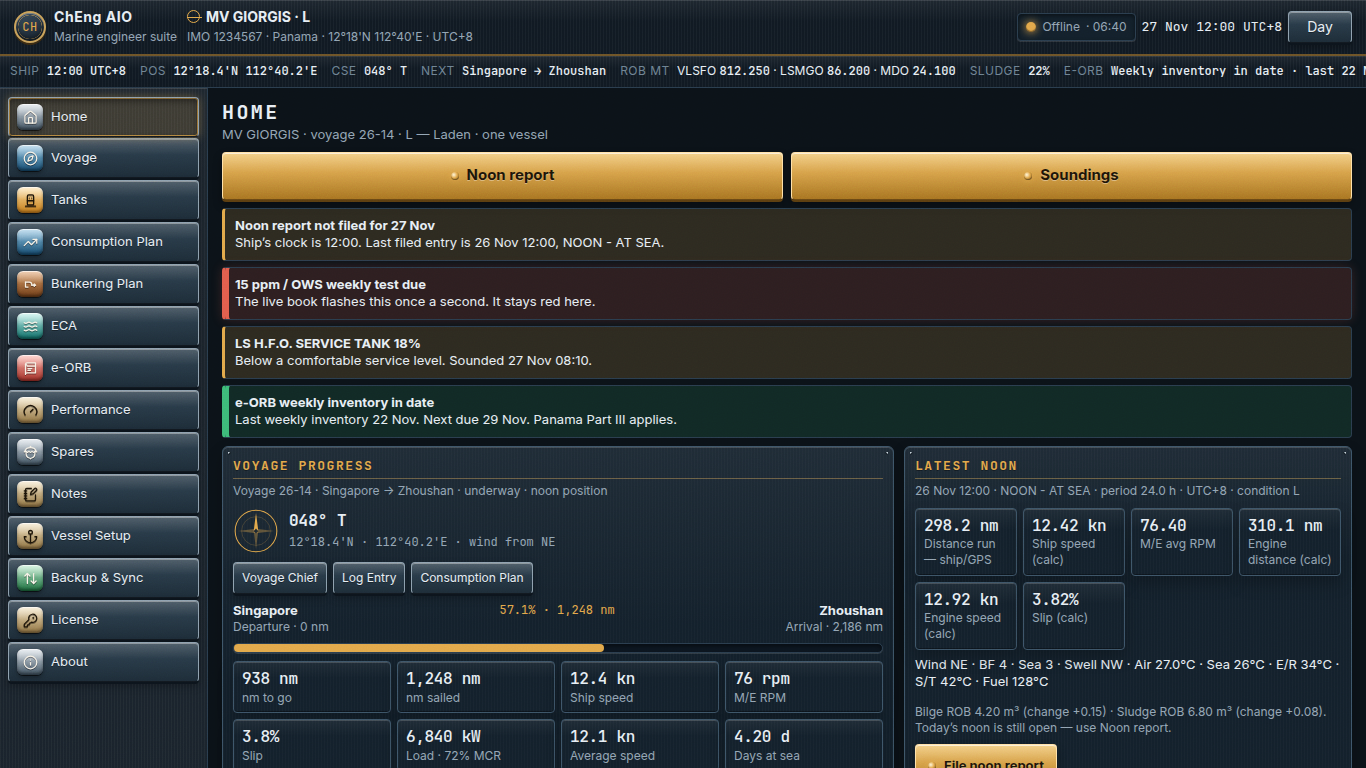
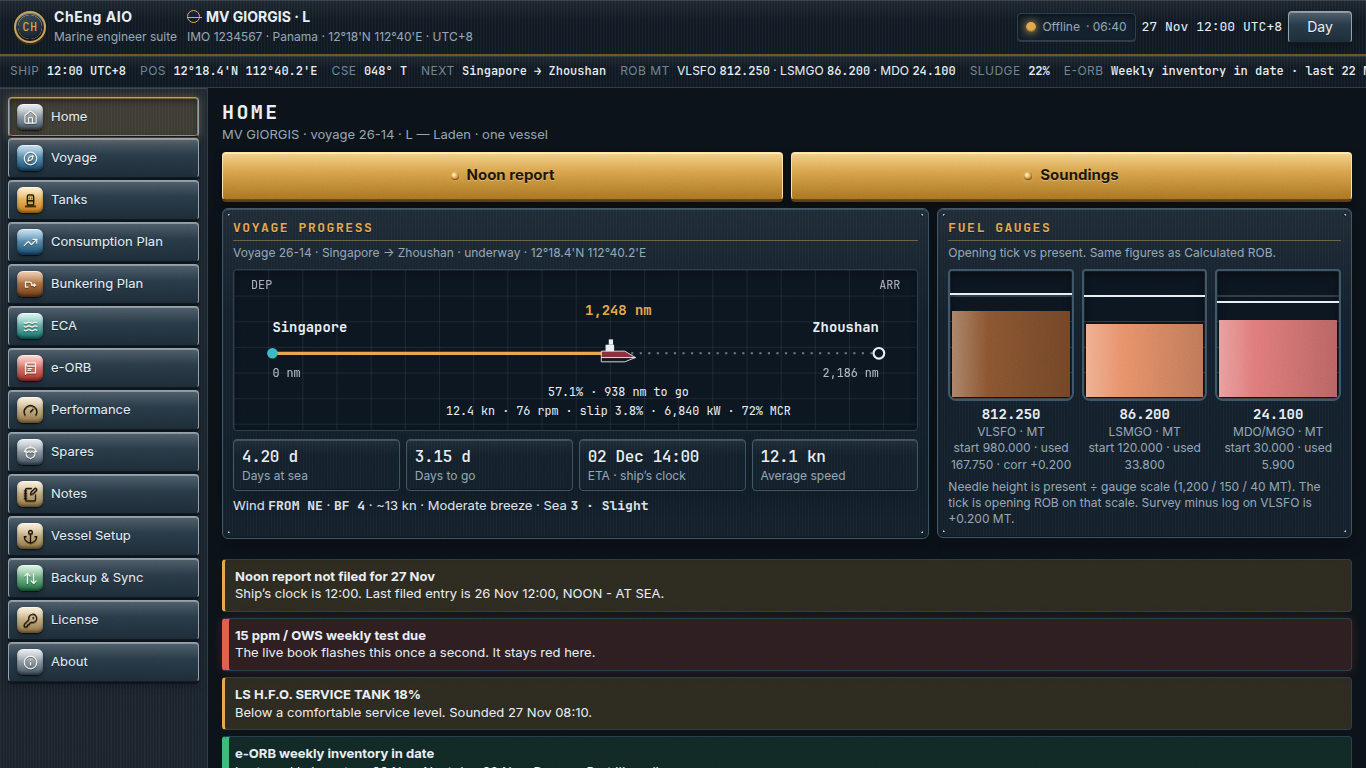
Restore the voyage passage chart and vertical fuel gauges on the home mockup.

diff --git a/docs/redesign-mockups/dashboard.html b/docs/redesign-mockups/dashboard.html
@@ -33,6 +33,72 @@
       <a class="btn primary" href="soundings.html">Soundings</a>
     </div>
 
+    <div class="hero">
+      <section class="band passage-hero" id="passage">
+        <h2>Voyage progress</h2>
+        <p class="sub">Voyage 26-14 · Singapore → Zhoushan · underway · 12°18.4'N 112°40.2'E</p>
+        <svg class="passage-svg" viewBox="0 0 640 150" role="img" aria-label="Passage from Singapore to Zhoushan, 1,248 nautical miles run of 2,186">
+          <defs>
+            <pattern id="chartgrid" width="32" height="24" patternUnits="userSpaceOnUse">
+              <path d="M32 0H0V24" fill="none" stroke="currentColor" stroke-width="0.4" opacity="0.35"/>
+            </pattern>
+          </defs>
+          <rect x="0" y="0" width="640" height="150" fill="url(#chartgrid)"/>
+          <text x="16" y="18" fill="currentColor" font-size="11" opacity="0.7">DEP</text>
+          <text x="624" y="18" text-anchor="end" fill="currentColor" font-size="11" opacity="0.7">ARR</text>
+          <line x1="36" y1="78" x2="604" y2="78" stroke="currentColor" stroke-width="2" stroke-dasharray="2 6" opacity="0.45"/>
+          <line x1="36" y1="78" x2="360" y2="78" stroke="#e2a84a" stroke-width="3" stroke-linecap="round"/>
+          <circle cx="36" cy="78" r="5" fill="#3cb6c6"/>
+          <circle cx="604" cy="78" r="5" fill="none" stroke="currentColor" stroke-width="2"/>
+          <g transform="translate(360 78)">
+            <path d="M-16 4 L-16 -2 L6 -2 L16 4 Z" fill="#8a3038" stroke="currentColor" stroke-width="0.8"/>
+            <path d="M-16 8 L-16 4 L16 4 L6 8 Z" fill="#14181c" stroke="currentColor" stroke-width="0.8"/>
+            <rect x="-12" y="-8" width="8" height="6" fill="currentColor"/>
+            <rect x="-9" y="-13" width="4" height="5" fill="currentColor"/>
+          </g>
+          <text x="36" y="58" fill="currentColor" font-size="13" font-weight="650">Singapore</text>
+          <text x="36" y="100" fill="currentColor" font-size="11" opacity="0.75">0 nm</text>
+          <text x="604" y="58" text-anchor="end" fill="currentColor" font-size="13" font-weight="650">Zhoushan</text>
+          <text x="604" y="100" text-anchor="end" fill="currentColor" font-size="11" opacity="0.75">2,186 nm</text>
+          <text x="360" y="42" text-anchor="middle" fill="#e2a84a" font-size="13" font-weight="650">1,248 nm</text>
+          <text x="360" y="118" text-anchor="middle" fill="currentColor" font-size="11">57.1% · 938 nm to go</text>
+          <text x="360" y="136" text-anchor="middle" fill="currentColor" font-size="11">12.4 kn · 76 rpm · slip 3.8% · 6,840 kW · 72% MCR</text>
+        </svg>
+        <div class="stat-row passage-strip">
+          <div class="stat"><b>4.20 d</b><span>Days at sea</span></div>
+          <div class="stat"><b>3.15 d</b><span>Days to go</span></div>
+          <div class="stat"><b>02 Dec 14:00</b><span>ETA · ship’s clock</span></div>
+          <div class="stat"><b>12.1 kn</b><span>Average speed</span></div>
+        </div>
+        <p class="wx">Wind <b>FROM NE</b> · <b>BF 4</b> · ~13 kn · Moderate breeze · Sea <b>3 · Slight</b></p>
+      </section>
+      <section class="band" id="fuel-gauges">
+        <h2>Fuel gauges</h2>
+        <p class="sub">Opening tick vs present. Same figures as Calculated ROB.</p>
+        <div class="vtanks">
+          <div class="vtank vlsfo">
+            <div class="vtank-glass" style="--fill:67.7%; --open:81.7%"><i></i><s></s></div>
+            <b>812.250</b>
+            <span>VLSFO · MT</span>
+            <em>start 980.000 · used 167.750 · corr +0.200</em>
+          </div>
+          <div class="vtank lsmgo">
+            <div class="vtank-glass" style="--fill:57.5%; --open:80%"><i></i><s></s></div>
+            <b>86.200</b>
+            <span>LSMGO · MT</span>
+            <em>start 120.000 · used 33.800</em>
+          </div>
+          <div class="vtank mdo">
+            <div class="vtank-glass" style="--fill:60.3%; --open:75%"><i></i><s></s></div>
+            <b>24.100</b>
+            <span>MDO/MGO · MT</span>
+            <em>start 30.000 · used 5.900</em>
+          </div>
+        </div>
+        <p class="hint">Needle height is present ÷ gauge scale (1,200 / 150 / 40 MT). The tick is opening ROB on that scale. Survey minus log on VLSFO is +0.200 MT.</p>
+      </section>
+    </div>
+
     <div class="alerts" id="alerts">
       <div class="alert"><b>Noon report not filed for 27 Nov</b>Ship’s clock is 12:00. Last filed entry is 26 Nov 12:00, NOON - AT SEA.</div>
       <div class="alert bad"><b>15 ppm / OWS weekly test due</b>The live book flashes this once a second. It stays red here.</div>
@@ -41,34 +107,14 @@
     </div>
 
     <div class="board-top">
-      <section class="band" id="passage">
-        <h2>Voyage progress</h2>
-        <p class="sub">Voyage 26-14 · Singapore → Zhoushan · underway · noon position</p>
-        <div class="bearing">
-          <svg class="rose" viewBox="0 0 64 64" aria-hidden="true">
-            <circle cx="32" cy="32" r="29" fill="none" stroke="currentColor" stroke-width="1.4"/>
-            <circle cx="32" cy="32" r="20" fill="none" stroke="currentColor" stroke-width="0.6" opacity="0.45"/>
-            <path d="M32 7 L35.2 32 L32 28.5 L28.8 32 Z" fill="currentColor"/>
-            <path d="M32 57 L28.8 32 L32 35.5 L35.2 32 Z" fill="currentColor" opacity="0.35"/>
-            <path d="M7 32 L32 28.8 L28.5 32 L32 35.2 Z" fill="currentColor" opacity="0.35"/>
-            <path d="M57 32 L32 35.2 L35.5 32 L32 28.8 Z" fill="currentColor" opacity="0.35"/>
-          </svg>
-          <div>
-            <b>048° T</b>
-            <span>12°18.4'N · 112°40.2'E · wind from NE</span>
-          </div>
-        </div>
+      <section class="band" id="passage-detail">
+        <h2>Voyage figures</h2>
+        <p class="sub">The same readings as the passage chart, listed for the log. Beaufort samples stay here.</p>
         <div class="btn-row">
           <a class="btn small" href="dashboard.html#passage">Voyage Chief</a>
           <a class="btn small" href="noon.html">Log Entry</a>
           <a class="btn small" href="soon.html?id=bunkerplan">Consumption Plan</a>
         </div>
-        <div class="passage-ports" style="margin-top:8px">
-          <div><b>Singapore</b><span>Departure · 0 nm</span></div>
-          <div class="passage-mid">57.1% · 1,248 nm</div>
-          <div style="text-align:right"><b>Zhoushan</b><span>Arrival · 2,186 nm</span></div>
-        </div>
-        <div class="track" aria-hidden="true"><i></i></div>
         <div class="metrics">
           <div class="metric"><b>938 nm</b><span>nm to go</span></div>
           <div class="metric"><b>1,248 nm</b><span>nm sailed</span></div>
@@ -94,7 +140,7 @@
             <button type="button" class="btn small">BF 12</button>
             <button type="button" class="btn small on">Live</button>
           </div>
-          <p class="hint">Samples are the same preview buttons as Voyage Summary. Live uses the log weather above. The hull, waves and rain drawing are not repeated; every figure it carried is on this tape.</p>
+          <p class="hint">Samples are the same preview buttons as Voyage Summary. Live uses the weather on the passage chart. The animated rain and waves are not repeated.</p>
         </details>
       </section>
 

diff --git a/docs/redesign-mockups/station.css b/docs/redesign-mockups/station.css
@@ -1097,6 +1097,65 @@ html[data-theme="day"] .ico {
   height: 10px;
   box-shadow: inset 0 2px 4px rgba(0, 0, 0, 0.5), 0 1px 0 rgba(255, 255, 255, 0.12);
 }
+.hero { display: grid; grid-template-columns: 1fr; gap: 8px; margin: 0 0 10px; }
+.passage-svg {
+  width: 100%;
+  height: auto;
+  display: block;
+  color: var(--text);
+  background: var(--well);
+  border: 1px solid var(--line);
+  border-radius: 4px;
+  box-shadow: inset 0 2px 6px rgba(0, 0, 0, 0.35);
+}
+.passage-svg text { font-family: var(--mono); }
+.passage-strip { margin-top: 8px; }
+.vtanks { display: grid; grid-template-columns: repeat(3, minmax(0, 1fr)); gap: 8px; }
+.vtank { min-width: 0; text-align: center; }
+.vtank b { display: block; font-family: var(--mono); font-size: 14px; margin-top: 4px; }
+.vtank span, .vtank em { display: block; color: var(--muted); font-size: 12px; font-style: normal; }
+.vtank-glass {
+  position: relative;
+  height: 108px;
+  border-radius: 4px 4px 8px 8px;
+  border: 2px solid var(--line-strong);
+  background:
+    repeating-linear-gradient(180deg, transparent 0 19%, rgba(255, 255, 255, 0.16) 19% 20%),
+    var(--well);
+  box-shadow: inset 0 3px 8px rgba(0, 0, 0, 0.5), inset 0 0 0 1px rgba(255, 255, 255, 0.08);
+  overflow: hidden;
+}
+.vtank-glass i {
+  position: absolute;
+  left: 2px;
+  right: 2px;
+  bottom: 2px;
+  height: var(--fill);
+  background: linear-gradient(90deg, rgba(255, 255, 255, 0.28), transparent 30%, rgba(0, 0, 0, 0.18)), var(--ink, #8a5a32);
+}
+.vtank-glass s {
+  position: absolute;
+  left: 0;
+  right: 0;
+  bottom: var(--open);
+  border-top: 2px solid var(--text);
+  height: 0;
+}
+.vlsfo { --ink: #8a5530; }
+.lsmgo { --ink: #e8926a; }
+.mdo { --ink: #e07a7a; }
+@media (max-width: 599px) {
+  .passage-strip { grid-template-columns: repeat(4, minmax(0, 1fr)); }
+  .passage-strip .stat { padding: 4px; }
+  .passage-strip .stat b { font-size: 12px; }
+  .vtank-glass { height: 84px; }
+  .vtank em { font-size: 12px; line-height: 1.2; }
+  .passage-hero .sub { display: none; }
+}
+@media (min-width: 1100px) {
+  .hero { grid-template-columns: 1.45fr 0.85fr; align-items: start; }
+  .vtank-glass { height: 132px; }
+}
 .bearing {
   display: flex;
   align-items: center;

diff --git a/docs/redesign-mockups/README.md b/docs/redesign-mockups/README.md
@@ -12,7 +12,7 @@ Night is painted plate over blue-black steel (`#0b1218`). The ground carries a f
 
 Buttons are push-buttons. A rim, a highlight along the top edge, and a shadow under the button make them stand off the plate. Pressing one (or leaving it on) sinks it and lights a lamp: amber for the active control, green when a state is in date, red for the OWS alarm. On a phone, Noon and Soundings are solid brass console keys on the bottom bar and again as the two large keys at the top of Home. The offline pill is a lamp bezel, not a flat chip.
 
-The maritime marks are structural, not pictures. Section titles are stencil-style plate stamps (wide mono capitals, a brass rule). The ship name carries a small load-line disc. The watch strip and the passage give course and a noon position in degrees and minutes. A compass card sits beside that position: a ring and a north needle, not a drawing of a ship. Tank levels are sight glasses with ticks and the 85% line. The old hull, waves and rain are still not here. Every figure they showed is still on the passage tape.
+The maritime marks are structural, not pictures. Section titles are stencil-style plate stamps (wide mono capitals, a brass rule). The ship name carries a small load-line disc. The watch strip gives course and a noon position. The voyage progress chart is a passage line on a faint grid: departure, arrival, miles run in brass, miles remaining dashed, and a small hull marker at the ship’s position. It is a chart symbol, not the old animated hull, waves and rain. Fuel on Home is a vertical gauge for each grade, in the pipe colour, with the opening ROB as a tick.
 
 Type is Inter for reading and JetBrains Mono for figures and plate stamps. Nothing on screen is under 12px. Touch targets stay 44px on a phone or tablet, and tighten on Windows so a 768px-tall laptop still has room for the form.
 
@@ -129,7 +129,7 @@ Calibration, on a phone, is one trim column down the page, chosen from a list. T
 
 ## Dashboard inventory
 
-Today there are three home screens. ChEng AIO Home, Voyage Chief’s Summary, and Tank Chief’s Vessel Tank Overview. The new Home keeps every card, metric, control and alert from all three. The passage drawing is the one widget that changed shape: the picture is gone, the readings are not.
+Today there are three home screens. ChEng AIO Home, Voyage Chief’s Summary, and Tank Chief’s Vessel Tank Overview. The new Home keeps every card, metric, control and alert from all three. The voyage picture is a chart passage with a hull marker. The animated waves and rain are not repeated.
 
 ### ChEng AIO shell and Home
 
@@ -138,14 +138,11 @@ Today there are three home screens. ChEng AIO Home, Voyage Chief’s Summary, an
 | Watch strip: ship’s clock, next ports, ROB by grade, sludge %, e-ORB weekly line | The strip under the top bar, on every screen |
 | First-run “Set up this vessel” when no ship exists | Empty state of this same board. Not drawn on the working sample. The note at the bottom of the tank section says so |
 | Voyage progress: Voyage Chief, Log Entry, Consumption Plan | Passage band, button row |
-| Departure port and 0 nm, arrival port and total nm | Passage tape, both ends |
-| Track position, nm sailed, % complete, nm to go | Tape and the figures under it |
-| Speed, RPM, slip, kW, % MCR while underway | Same figures. At anchor / in port / drifting would replace them with that status, as today |
-| Average speed | Passage figures |
-| Wind from, Beaufort, knots, Beaufort name, sea state | Weather line under the tape |
-| Days at sea, days to go, ETA | Passage figures |
+| Voyage progress picture: departure, 0 nm, arrival, total nm, ship on the track, nm sailed, percent complete, nm to go, speed, RPM, slip, kW, % MCR, average speed | The chart directly under the Noon and Soundings keys. Visible on the 1366×768 desktop, the 360×800 phone, and tablet landscape |
+| Days at sea, days to go, ETA | Strip under the voyage chart, and again in the voyage-figures list |
+| Wind from, Beaufort, knots, Beaufort name, sea state | Line under the chart. Beaufort sample buttons are in Voyage figures |
 | License warning if Voyage or Tanks is not on the key | Not on this sample (the sample is licensed). The sentence stays available where today’s warning sits, under the passage or the tank band |
-| Calculated ROB: ROB button, per-fuel gauge with present, opening, used, survey correction | Calculated ROB band. The needle gauge is a bar with an opening mark, same three numbers, readable at 320px |
+| Calculated ROB: ROB button, per-fuel gauge with present, opening tick, used, survey correction, fuel colour | Vertical fuel gauges in the top band, beside the chart on a wide screen and directly under it on a phone. The same three grades are repeated as numbers in Calculated ROB, with the lube and fresh-water gauges |
 | Vessel tank overview: Tank Chief, Monitoring, Bunkering Plan, Rearrange, Reset layout | Tank band, button row. Rearrange reveals the same hint |
 | HFO/VLSFO volume, logged count, % full | HFO / VLSFO card |
 | HFO/VLSFO weight in air | The weight line on that card, and the separate weight card |
